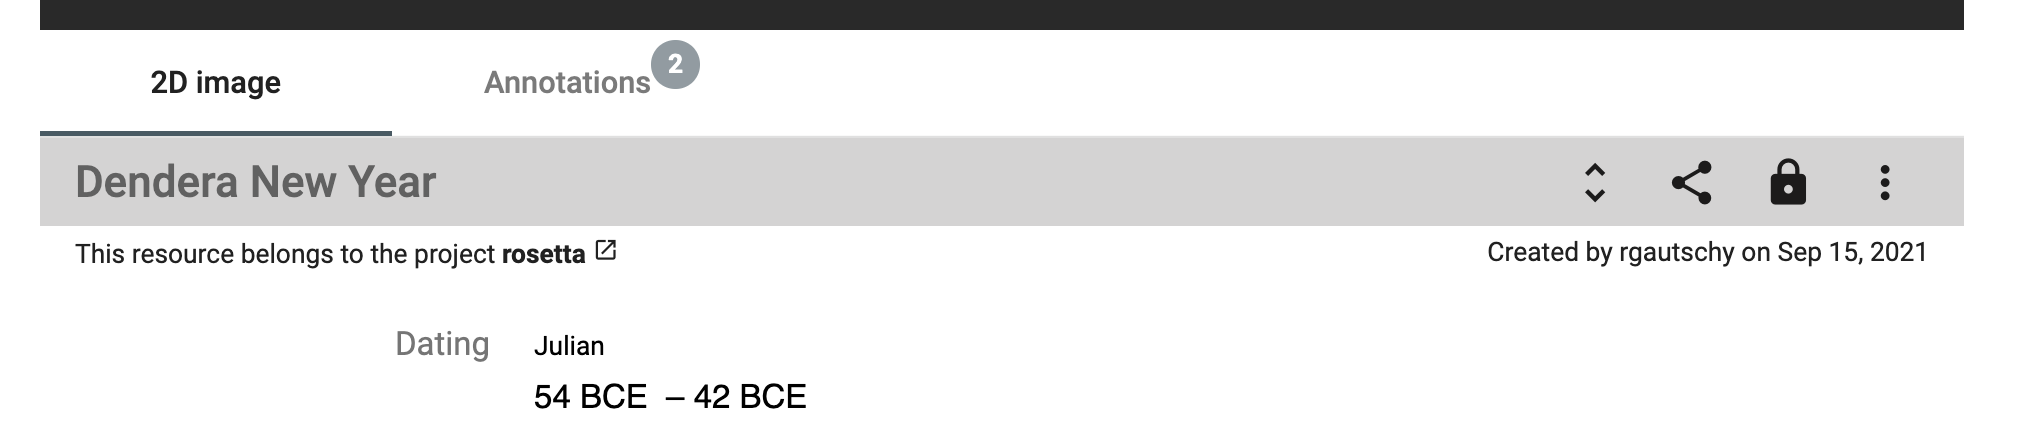
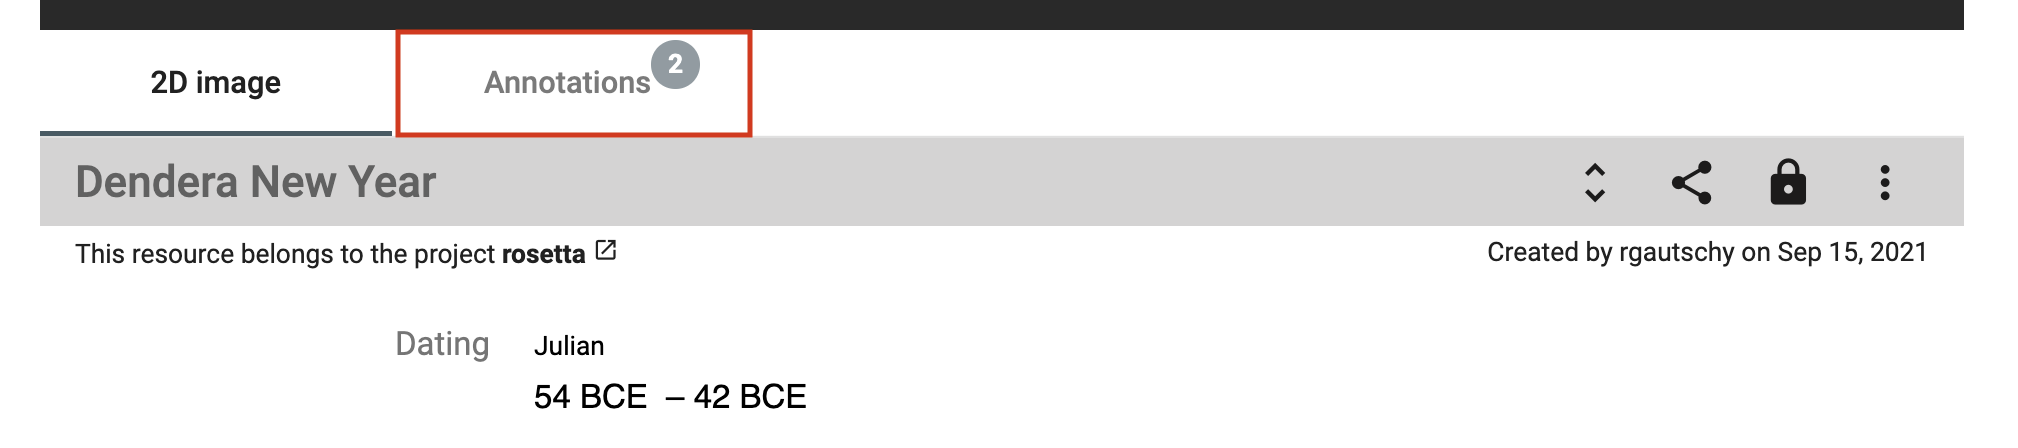
docs: Add content in the sections about the region

Changed region(s): [[0.1873, 0.2812, 0.3746, 0.3125], [0.1873, 0.0625, 0.3746, 0.0938]]

diff --git a/docs/user-guide/data.md b/docs/user-guide/data.md
@@ -217,9 +217,13 @@ To display the existing value comment, you mouse over the property value and cli
 
 #### Image viewer
 
-![Access the annotation panel](../assets/images/access_annotation_panel.png)*Access the annotation panel from the resource toolbar.*
+When you open a resource that contains an image, this one is displayed in a viewer. Several functionalities are accessible from the image viewer, e.g. zoom in/out, copy the IIIF link, replace the image or draw a region on the image.
 
 ![Image viewer](../assets/images/region_annotation_panel.png)*Image viewer toolbar.*
+
+To access the regions, go to the annotation panel. You can **click on a region** in the image viewer, the focus of the page will be redirected to the annotation information.
+
+![Access the annotation panel](../assets/images/access_annotation_panel.png)*Access the annotation panel from the resource toolbar.*
 
 ---
 
@@ -258,11 +262,17 @@ If your property is linked to another resource, you can search for an existing v
 
 #### Add an image region
 
-![Add a new property value.](../assets/images/add-value.png)*Add a new property value.*
+To create a new region on an image, you click on the button Draw a region in the toolbar, then select the region you want on the image.
 
-![Add a new property value.](../assets/images/add-value.png)*Add a new property value.*
+![Select a region.](../assets/images/region_draw.png)*Select a region on the image with the drawing tool.*
 
-![Add a new property value.](../assets/images/add-value.png)*Add a new property value.*
+Enter the information about the region, an informative label and a description as a comment. You can change the color.
+
+![Fill in the form.](../assets/images/region_fillin_form.png)*Fill in the form about the selected region.*
+
+The new region information is displayed after the image viewer. You can edit or delete if you have the granted permissions. A region has also an AKR URL you can copy and share.
+
+![Region created.](../assets/images/region_new_annotation.png)*A new region has been created.*
 
 ---
 
